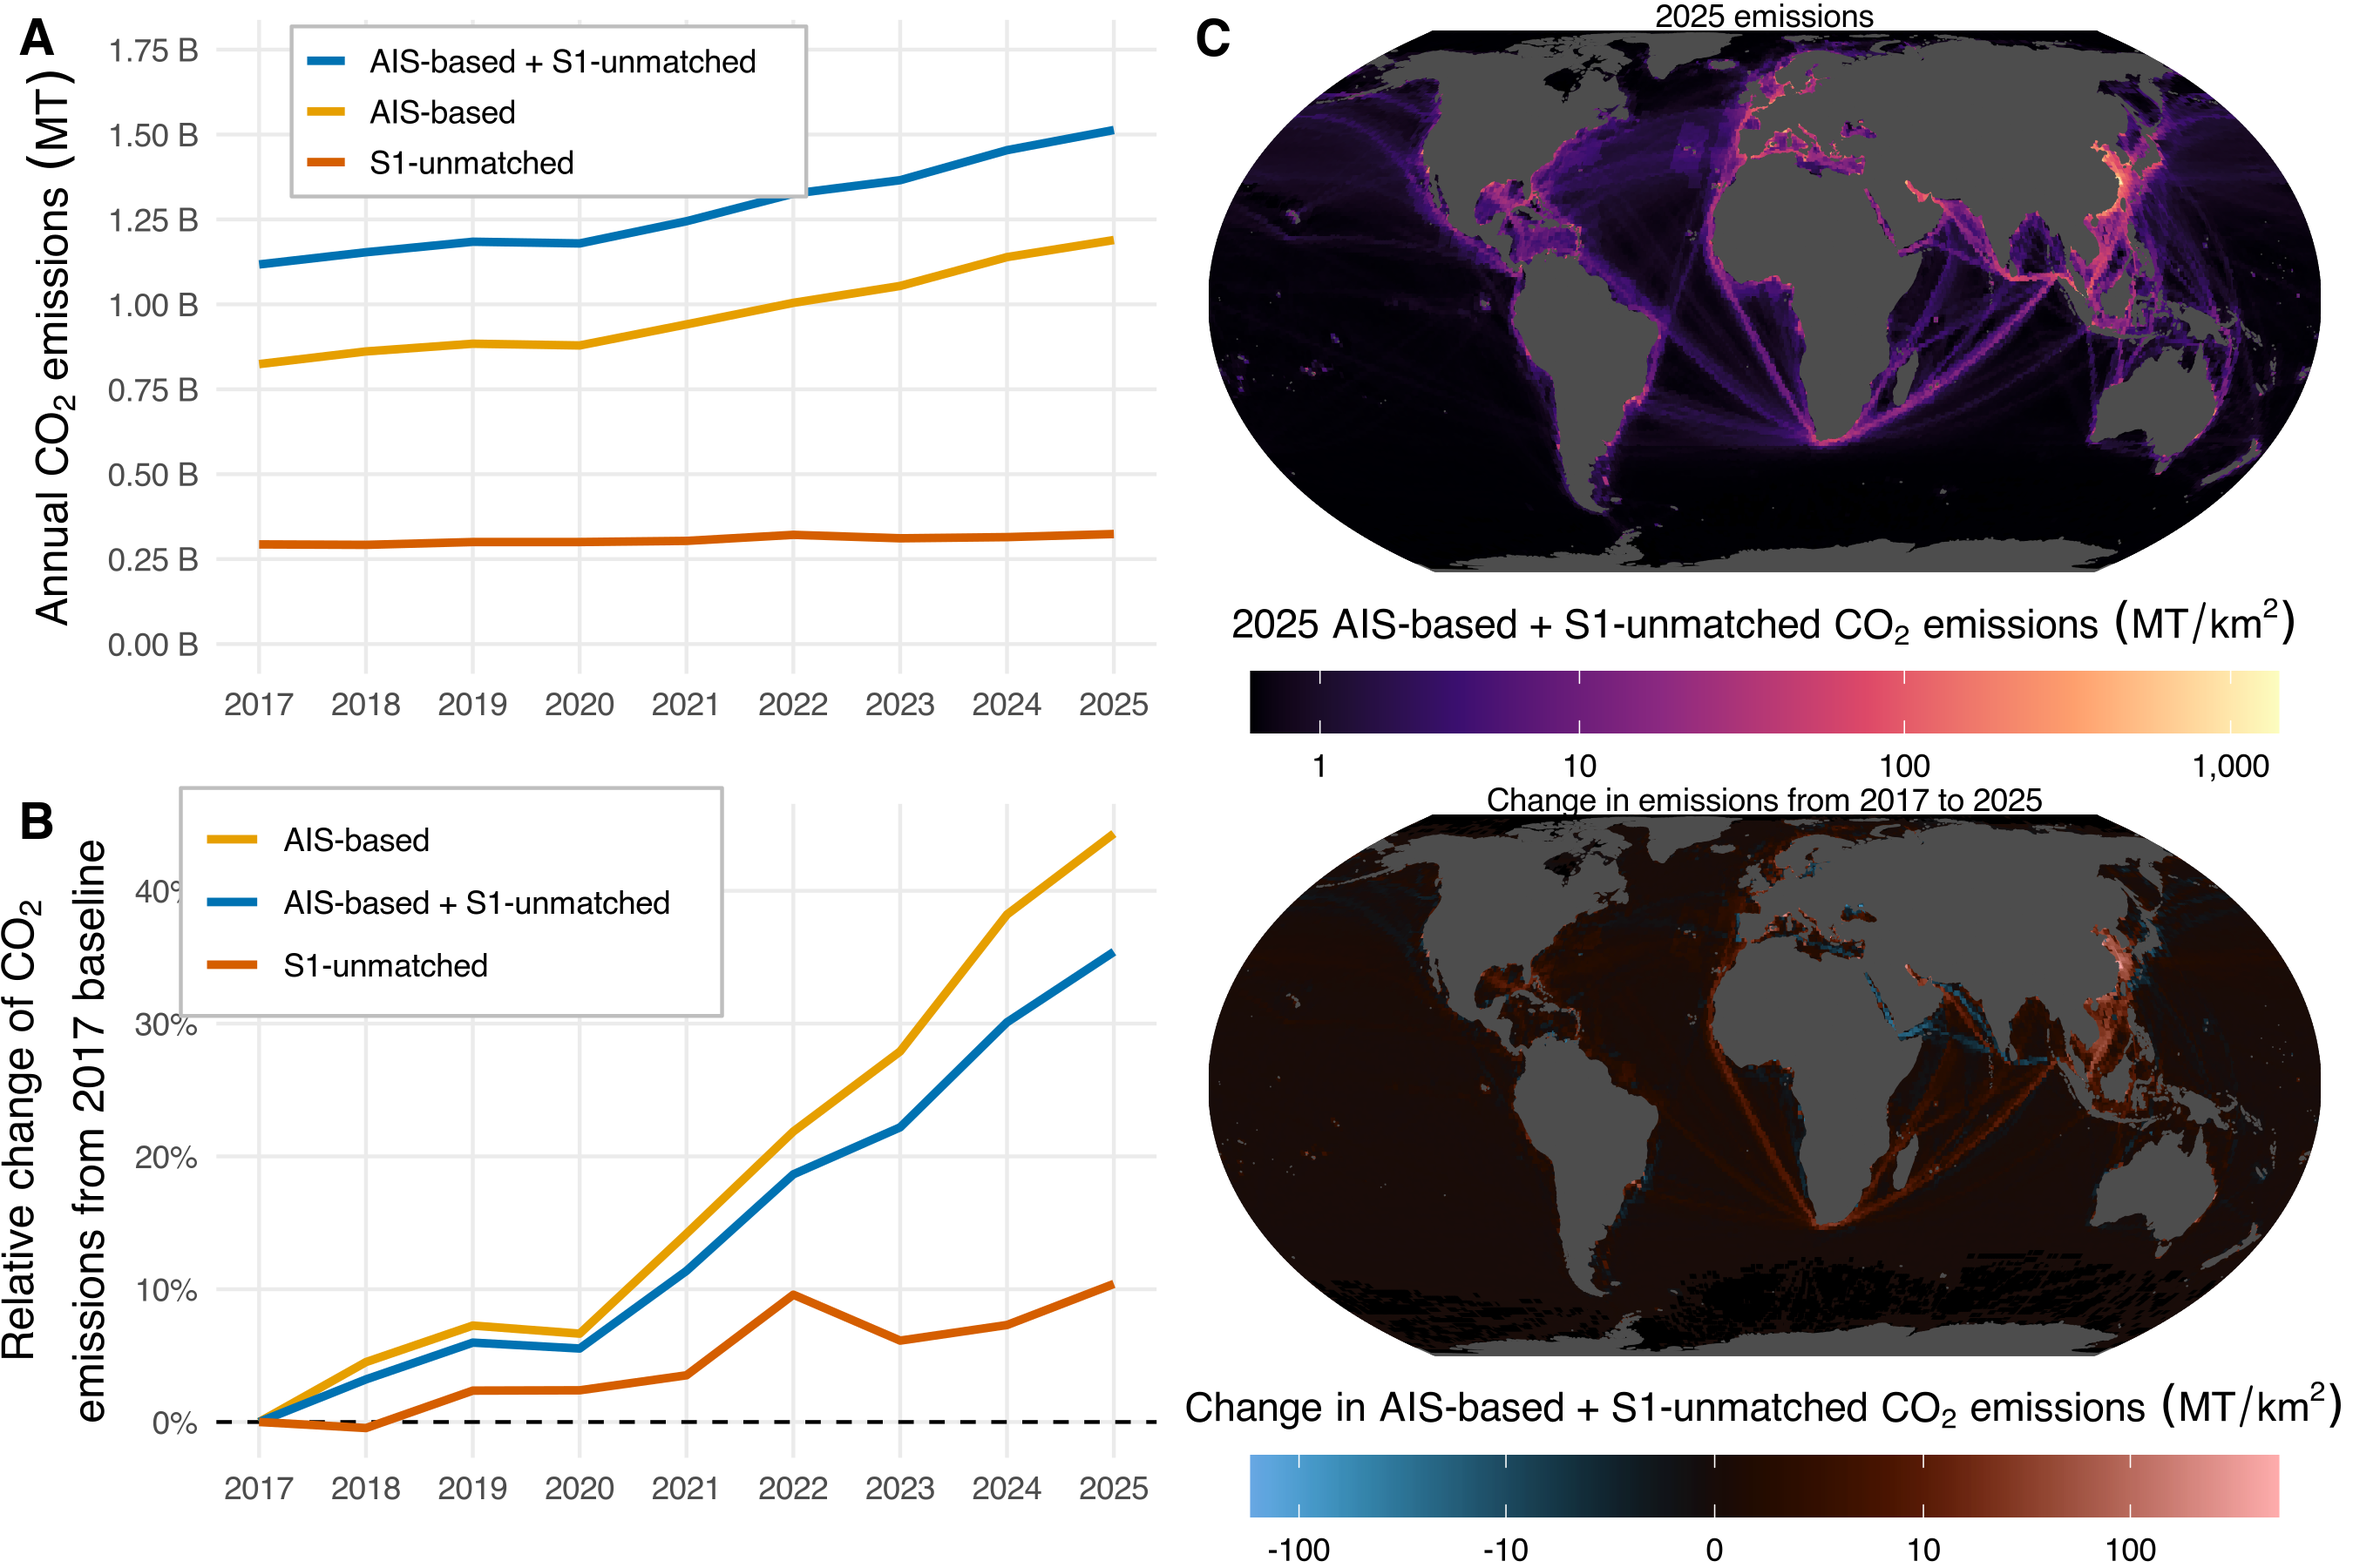
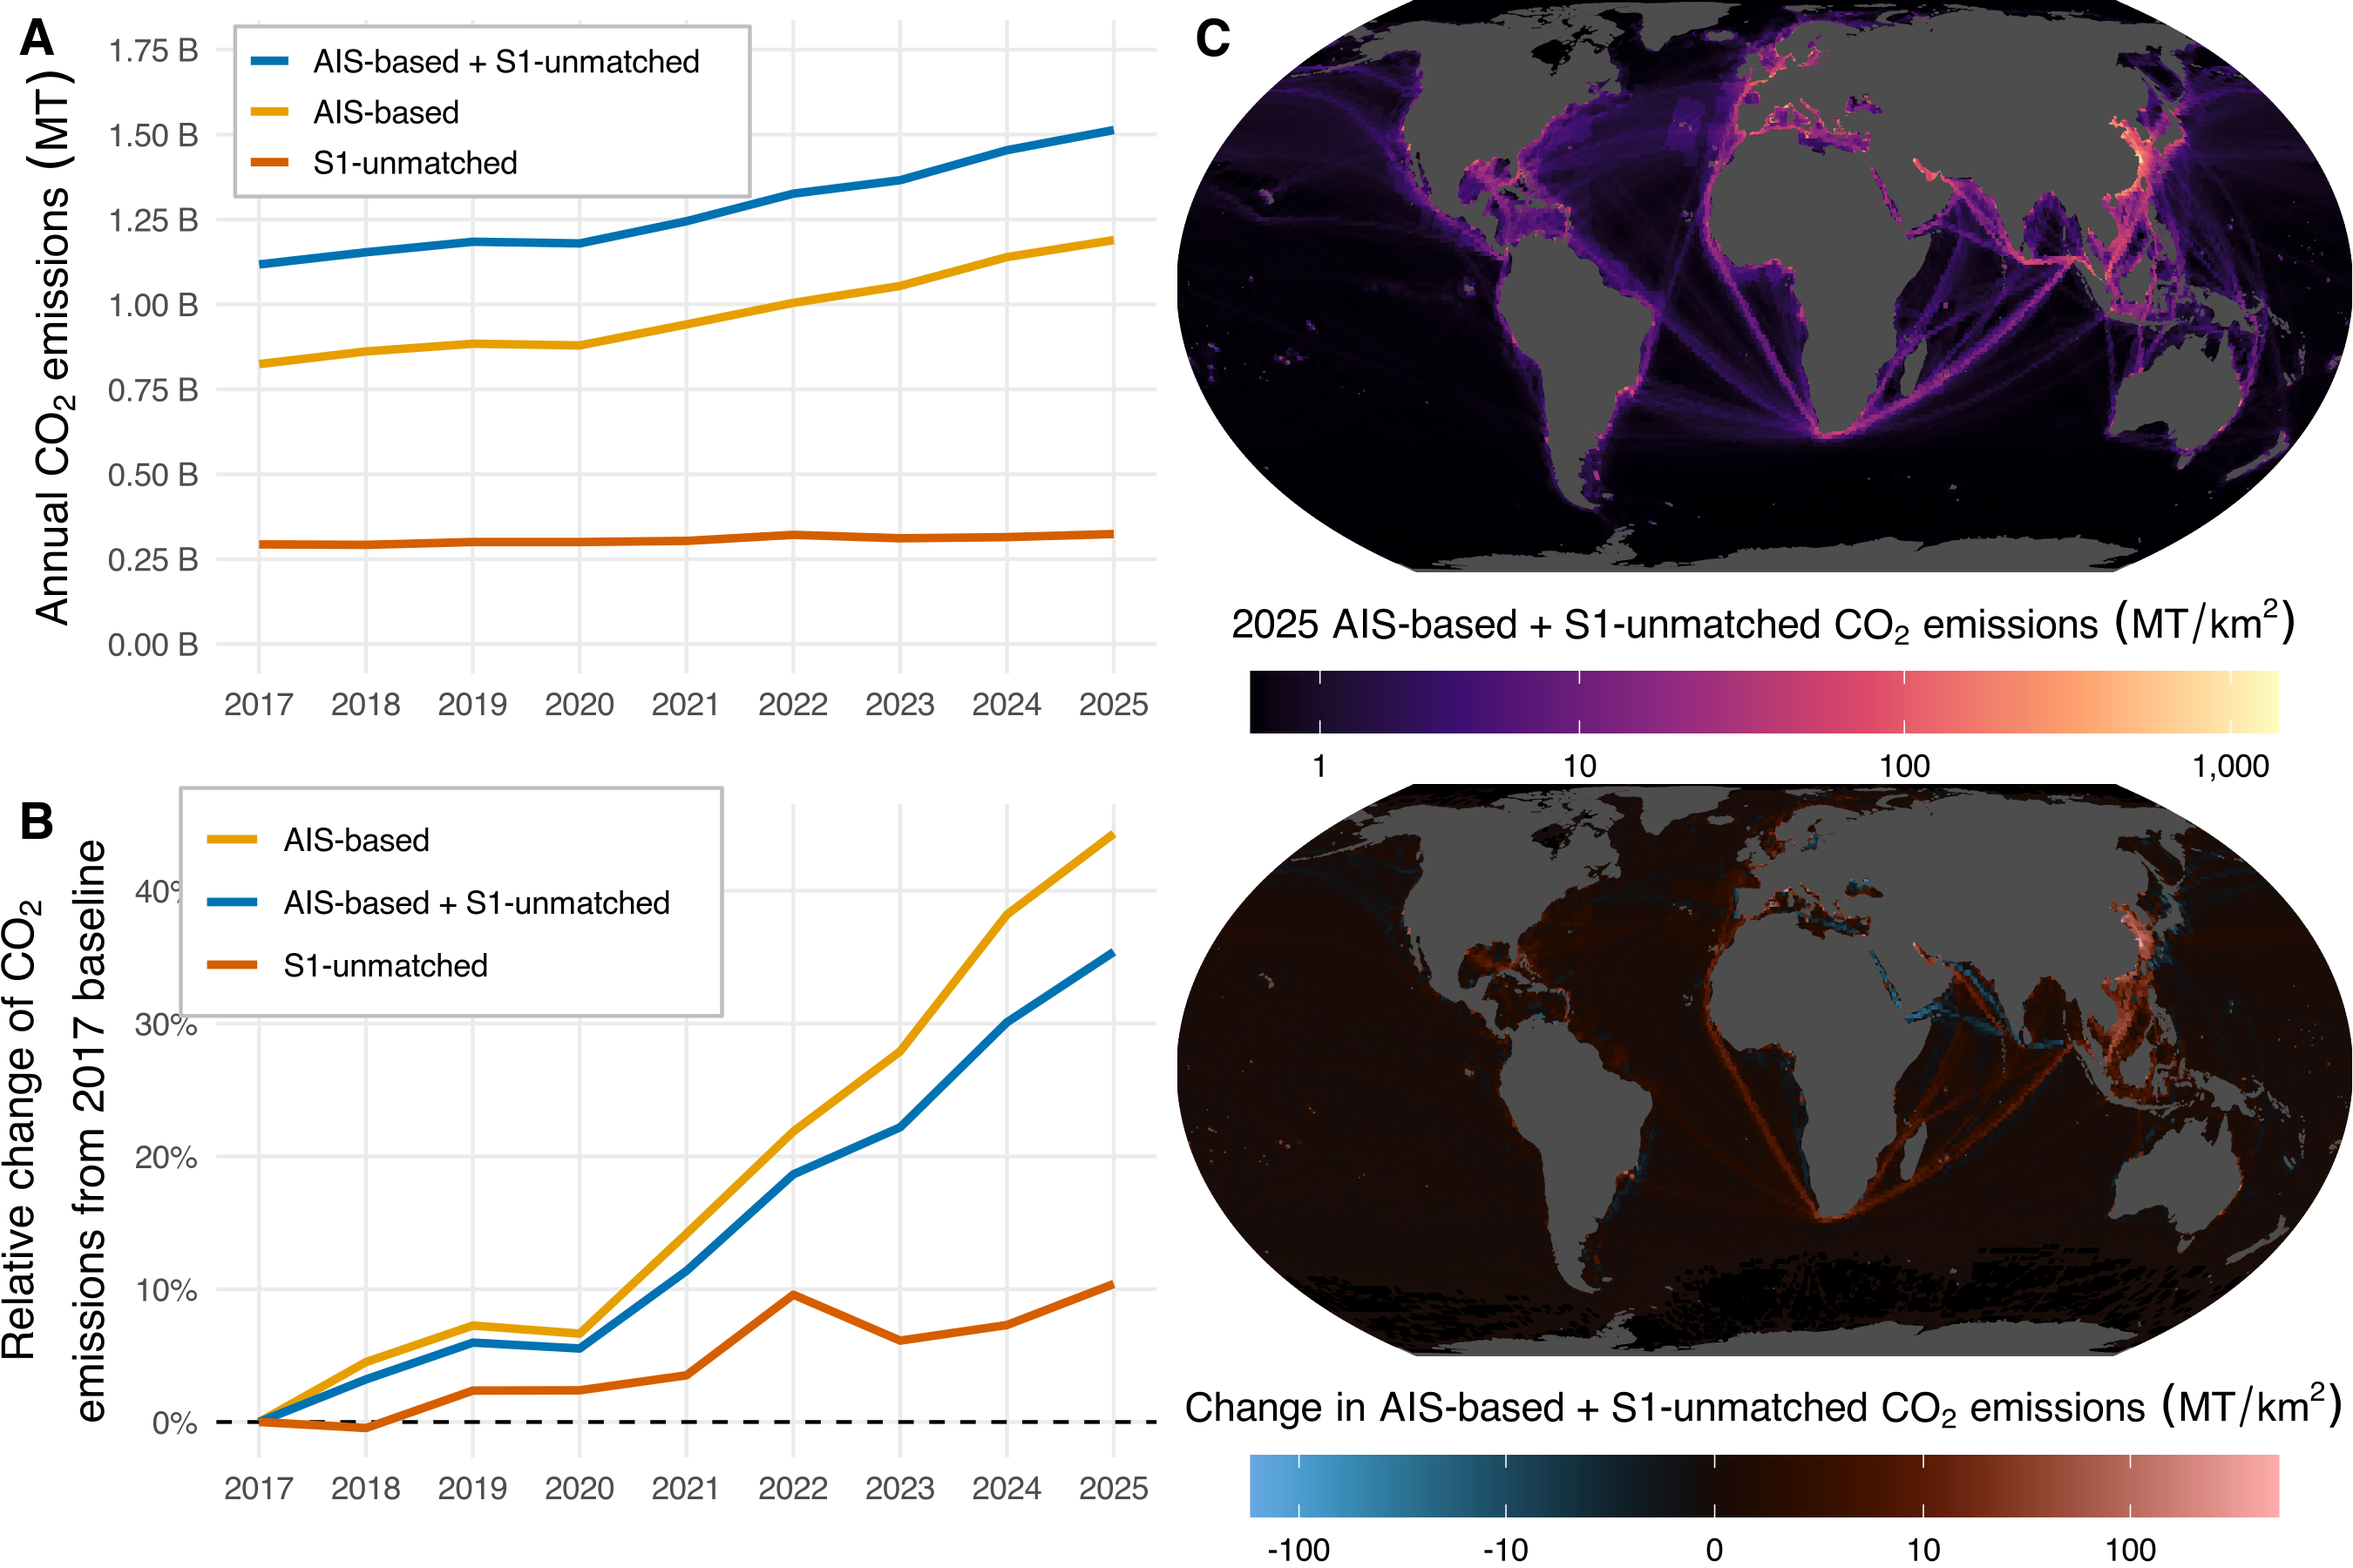
l

diff --git a/main.tex b/main.tex
@@ -99,12 +99,12 @@ To correctly estimate both the magnitude and trends of marine emissions, it is e
     \label{fig:fig-emissions-by-data-source-and-maps}
 \end{figure}
 
-Estimating S1-unmatched emissions offers new insights into the temporal trends of and spatial patterns of global emissions (Fig. \ref{fig:fig-emissions-time-series-and-maps}). Although total emissions has generally been increasing (Fig. \ref{fig:fig-emissions-time-series-and-maps}A), the S1-unmatched share of emissions has generally been declining since 2021 (Fig. \ref{fig:fig-emissions-time-series-and-maps}B), consistent with a steady increase in AIS monitoring over the period. The time series data reveal strong seasonal trends and event-driven variations in marine GHG emissions. We see consistent dips during major holidays including Christmas, New Year’s Day, and Chinese New Year, as well as during the COVID-19 pandemic (Fig. \ref{fig:fig-emissions-time-series-and-maps}A and Fig. \ref{fig:fig-pollutant-time-series}). Being able to spatially quantify S1-unmatched emissions fills important gaps in our current understanding of where marine vessel emissions take place, particularly in southeast Asia, China, the Caribbean, and the Mediterranean (Fig. \ref{fig:fig-emissions-time-series-and-maps}C), crucial for targeting policy or private sector interventions. Our dataset also provides this sort of nuanced spatiotemporal information disaggregated by fishing and non-fishing vessels (Fig. \ref{fig:fig-spatial-temporal-richness-by-fleet-total-pseudolog}). In 2025, 35\% of CO$_{2}$ emissions from fishing vessels were from S1-unmatched detections, and 20\% of CO$_{2}$ emissions from non-fishing vessels were from S1-unmatched detections.
+Estimating S1-unmatched emissions offers new insights into the temporal trends of and spatial patterns of global emissions (Fig. \ref{fig:fig-emissions-time-series-and-maps}). Although total emissions has generally been increasing (Fig. \ref{fig:fig-emissions-time-series-and-maps}A), the S1-unmatched share of emissions has generally been declining since 2021 (Fig. \ref{fig:fig-emissions-time-series-and-maps}B), consistent with a steady increase in AIS monitoring over the period. The time series data reveal strong seasonal trends and event-driven variations in marine GHG emissions. We see consistent dips during major holidays including Christmas, New Year’s Day, and Chinese New Year, as well as during the COVID-19 pandemic (Fig. \ref{fig:fig-emissions-time-series-and-maps}A and Fig. \ref{fig:fig-pollutant-time-series}). Being able to spatially quantify S1-unmatched emissions fills important gaps in our current understanding of where marine vessel emissions take place, particularly in southeast Asia, China, the Caribbean, and the Mediterranean (Fig. \ref{fig:fig-emissions-time-series-and-maps}C), crucial for targeting policy or private sector interventions. Expressed as a share of each pixel's total emissions rather than as a magnitude, the pattern is sharper still (Fig. \ref{fig:fig-emissions-time-series-and-maps}C, bottom): the S1-unmatched contribution is concentrated over continental shelves and in coastal waters --- southeast Asia, west Africa, the Arctic, and southern South America --- while the major open-ocean shipping lanes, where large AIS-broadcasting vessels dominate, are close to zero. Emissions monitoring based on AIS alone is therefore least complete precisely in the coastal waters where national jurisdiction, and the scope for intervention, is greatest. Our dataset also provides this sort of nuanced spatiotemporal information disaggregated by fishing and non-fishing vessels (Fig. \ref{fig:fig-spatial-temporal-richness-by-fleet-total-pseudolog}). In 2025, 35\% of CO$_{2}$ emissions from fishing vessels were from S1-unmatched detections, and 20\% of CO$_{2}$ emissions from non-fishing vessels were from S1-unmatched detections.
 
 \begin{figure}[H]
     \centering
     \includegraphics[width=\columnwidth]{figures/fig-emissions-time-series-and-maps-1.png}
-    \caption{(A) Time series of monthly global CO$_2$ emissions, with each line colored based on the data source: `AIS-based' (emissions from AIS-broadcasting vessels whose AIS signal was received, estimated ping-by-ping from the observed activity of those vessels); `S1-unmatched' (emissions from vessels detected by S1 that could not be matched to an AIS-broadcasting vessel, either because the vessel is completely non-broadcasting or because its AIS signal was not received --- that is, vessels observed by radar but absent from the AIS record); and `AIS-based + S1-unmatched' (the aggregation of these `AIS-based' and `S1-unmatched' emissions, our fused total). (B) Time series of the monthly share of global CO$_{2}$ emissions attributable to S1-detected unmatched vessels. (C) Spatial distribution of cumulative 2017-2025 CO$_{2}$ emissions from AIS-broadcasting vessels (top), S1-detected unmatched vessels (middle), and both types of vessels combined (bottom), shown at a 1x1 degree spatial resolution; emissions are area-normalized for each pixel (metric tonnes per square kilometer, shown on a pseudolog-10 scale).}
+    \caption{(A) Time series of monthly global CO$_2$ emissions, with each line colored based on the data source: `AIS-based' (emissions from AIS-broadcasting vessels whose AIS signal was received, estimated ping-by-ping from the observed activity of those vessels); `S1-unmatched' (emissions from vessels detected by S1 that could not be matched to an AIS-broadcasting vessel, either because the vessel is completely non-broadcasting or because its AIS signal was not received --- that is, vessels observed by radar but absent from the AIS record); and `AIS-based + S1-unmatched' (the aggregation of these `AIS-based' and `S1-unmatched' emissions, our fused total). (B) Time series of the monthly share of global CO$_{2}$ emissions attributable to S1-detected unmatched vessels. (C) Spatial distribution of 2025 CO$_{2}$ emissions from AIS-broadcasting vessels (top) and S1-detected unmatched vessels (middle), shown at a 1x1 degree spatial resolution; emissions are area-normalized for each pixel (metric tonnes per square kilometer, shown on a pseudolog-10 scale). The bottom map shows, for each pixel, the share of its 2025 CO$_{2}$ emissions that is S1-unmatched. Because this is a bounded percentage rather than a magnitude, it carries its own color scale, distinct from the one shared by the two maps above it. Every pixel carries a modeled value, so a pixel reading 0\% is one with no S1-unmatched emissions rather than one with no data. Note that panel B and the bottom map of panel C show the same quantity, in time and in space respectively, and that panel B's vertical axis does not start at zero.}
     \label{fig:fig-emissions-time-series-and-maps}
 \end{figure}
 
